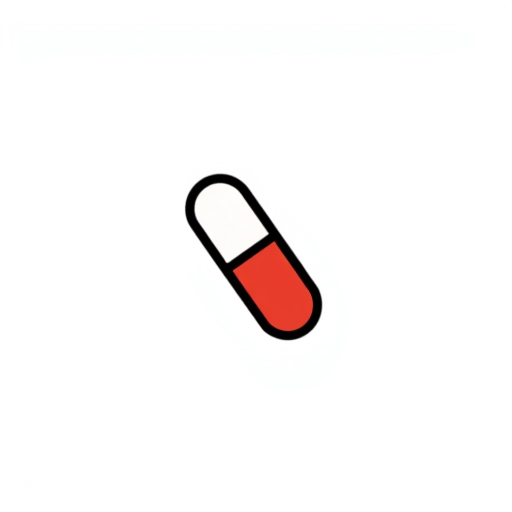
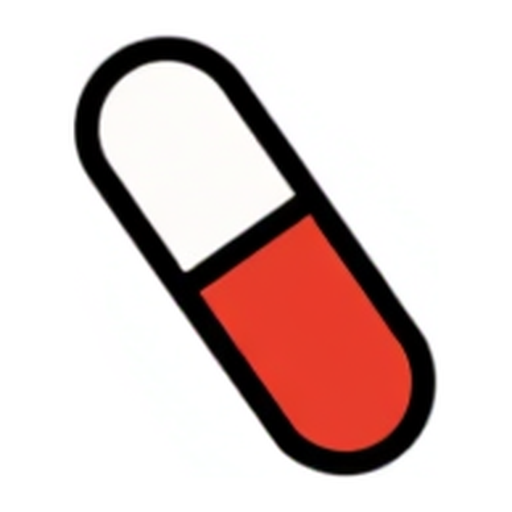
Add a sample photo of a printed sheet, shrink uploads, crop unit pictures

Changed region(s): [[0.125, 0.0625, 0.875, 0.9375]]

diff --git a/src/app/page.tsx b/src/app/page.tsx
@@ -21,6 +21,8 @@ type Parsed = {
 // on screen when the page opens. "Make the cards" always runs the real reader again.
 const SAMPLES = samples as unknown as { name: string; text: string; parsed: Parsed }[];
 
+const SAMPLE_PHOTO = { src: "/samples/discharge-sheet.jpg", name: "discharge-sheet.jpg" };
+
 type Report = { spec: TileSpec; state: TileState };
 
 export default function Home() {
@@ -39,12 +41,23 @@ export default function Home() {
     setReports((r) => (r[key]?.state === state ? r : { ...r, [key]: { spec, state } }));
   }, []);
 
+  // Photos are shrunk in the browser before upload: a phone photo is far larger than
+  // a reader needs, and small uploads keep the request inside hosting limits.
   async function onFile(file: File | undefined) {
     if (!file) return setPhoto(null);
-    const buf = new Uint8Array(await file.arrayBuffer());
-    let bin = "";
-    for (const b of buf) bin += String.fromCharCode(b);
-    setPhoto({ mime: file.type || "image/jpeg", base64: btoa(bin), name: file.name });
+    try {
+      const bitmap = await createImageBitmap(file);
+      const scale = Math.min(1, 1600 / Math.max(bitmap.width, bitmap.height));
+      const canvas = document.createElement("canvas");
+      canvas.width = Math.round(bitmap.width * scale);
+      canvas.height = Math.round(bitmap.height * scale);
+      canvas.getContext("2d")!.drawImage(bitmap, 0, 0, canvas.width, canvas.height);
+      const dataUrl = canvas.toDataURL("image/jpeg", 0.85);
+      setPhoto({ mime: "image/jpeg", base64: dataUrl.slice(dataUrl.indexOf(",") + 1), name: file.name });
+      setParsed(null);
+    } catch {
+      setError("That file could not be opened as a picture.");
+    }
   }
 
   async function submit() {
@@ -136,8 +149,24 @@ export default function Home() {
                     {s.name}
                   </button>
                 ))}
+                <button
+                  type="button"
+                  className="chip"
+                  aria-pressed={photo?.name === SAMPLE_PHOTO.name}
+                  onClick={async () => {
+                    const blob = await (await fetch(SAMPLE_PHOTO.src)).blob();
+                    await onFile(new File([blob], SAMPLE_PHOTO.name, { type: "image/jpeg" }));
+                  }}
+                >
+                  A photo of a printed sheet
+                </button>
               </div>
+              {photo ? (
+                // eslint-disable-next-line @next/next/no-img-element
+                <img className="sheet-photo" src={`data:${photo.mime};base64,${photo.base64}`} alt="The photographed discharge sheet" />
+              ) : null}
               <textarea
+                hidden={Boolean(photo)}
                 className="input"
                 value={text}
                 onChange={(e) => setText(e.target.value)}

diff --git a/src/app/globals.css b/src/app/globals.css
@@ -136,6 +136,14 @@
   color: var(--ink-3);
   background: var(--tint);
 }
+.sheet-photo {
+  width: 100%;
+  max-height: 340px;
+  object-fit: contain;
+  border-radius: var(--r-md);
+  background: var(--sunk);
+  box-shadow: var(--ring);
+}
 .select {
   height: 36px;
   padding: 0 12px;

diff --git a/scripts/trim_units.py b/scripts/trim_units.py
@@ -1,0 +1,19 @@
+# Crops each unit picture to its drawing, with a small even margin, so that when a card
+# repeats it the pills are large enough to count at a glance.
+# Run: uv run --with pillow python3 scripts/trim_units.py
+import glob
+from PIL import Image, ImageChops
+
+for path in sorted(glob.glob("public/tiles/unit-*.png")):
+    im = Image.open(path).convert("RGB")
+    diff = ImageChops.difference(im, Image.new("RGB", im.size, (255, 255, 255))).convert("L")
+    box = diff.point(lambda v: 255 if v > 18 else 0).getbbox()
+    if not box:
+        continue
+    w, h = box[2] - box[0], box[3] - box[1]
+    side = int(max(w, h) * 1.16)
+    cx, cy = (box[0] + box[2]) // 2, (box[1] + box[3]) // 2
+    canvas = Image.new("RGB", (side, side), (255, 255, 255))
+    canvas.paste(im.crop(box), (side // 2 - (cx - box[0]), side // 2 - (cy - box[1])))
+    canvas.resize((512, 512), Image.LANCZOS).save(path)
+    print(path, "drawing was", f"{max(w, h) / im.size[0]:.0%}", "of the frame")
